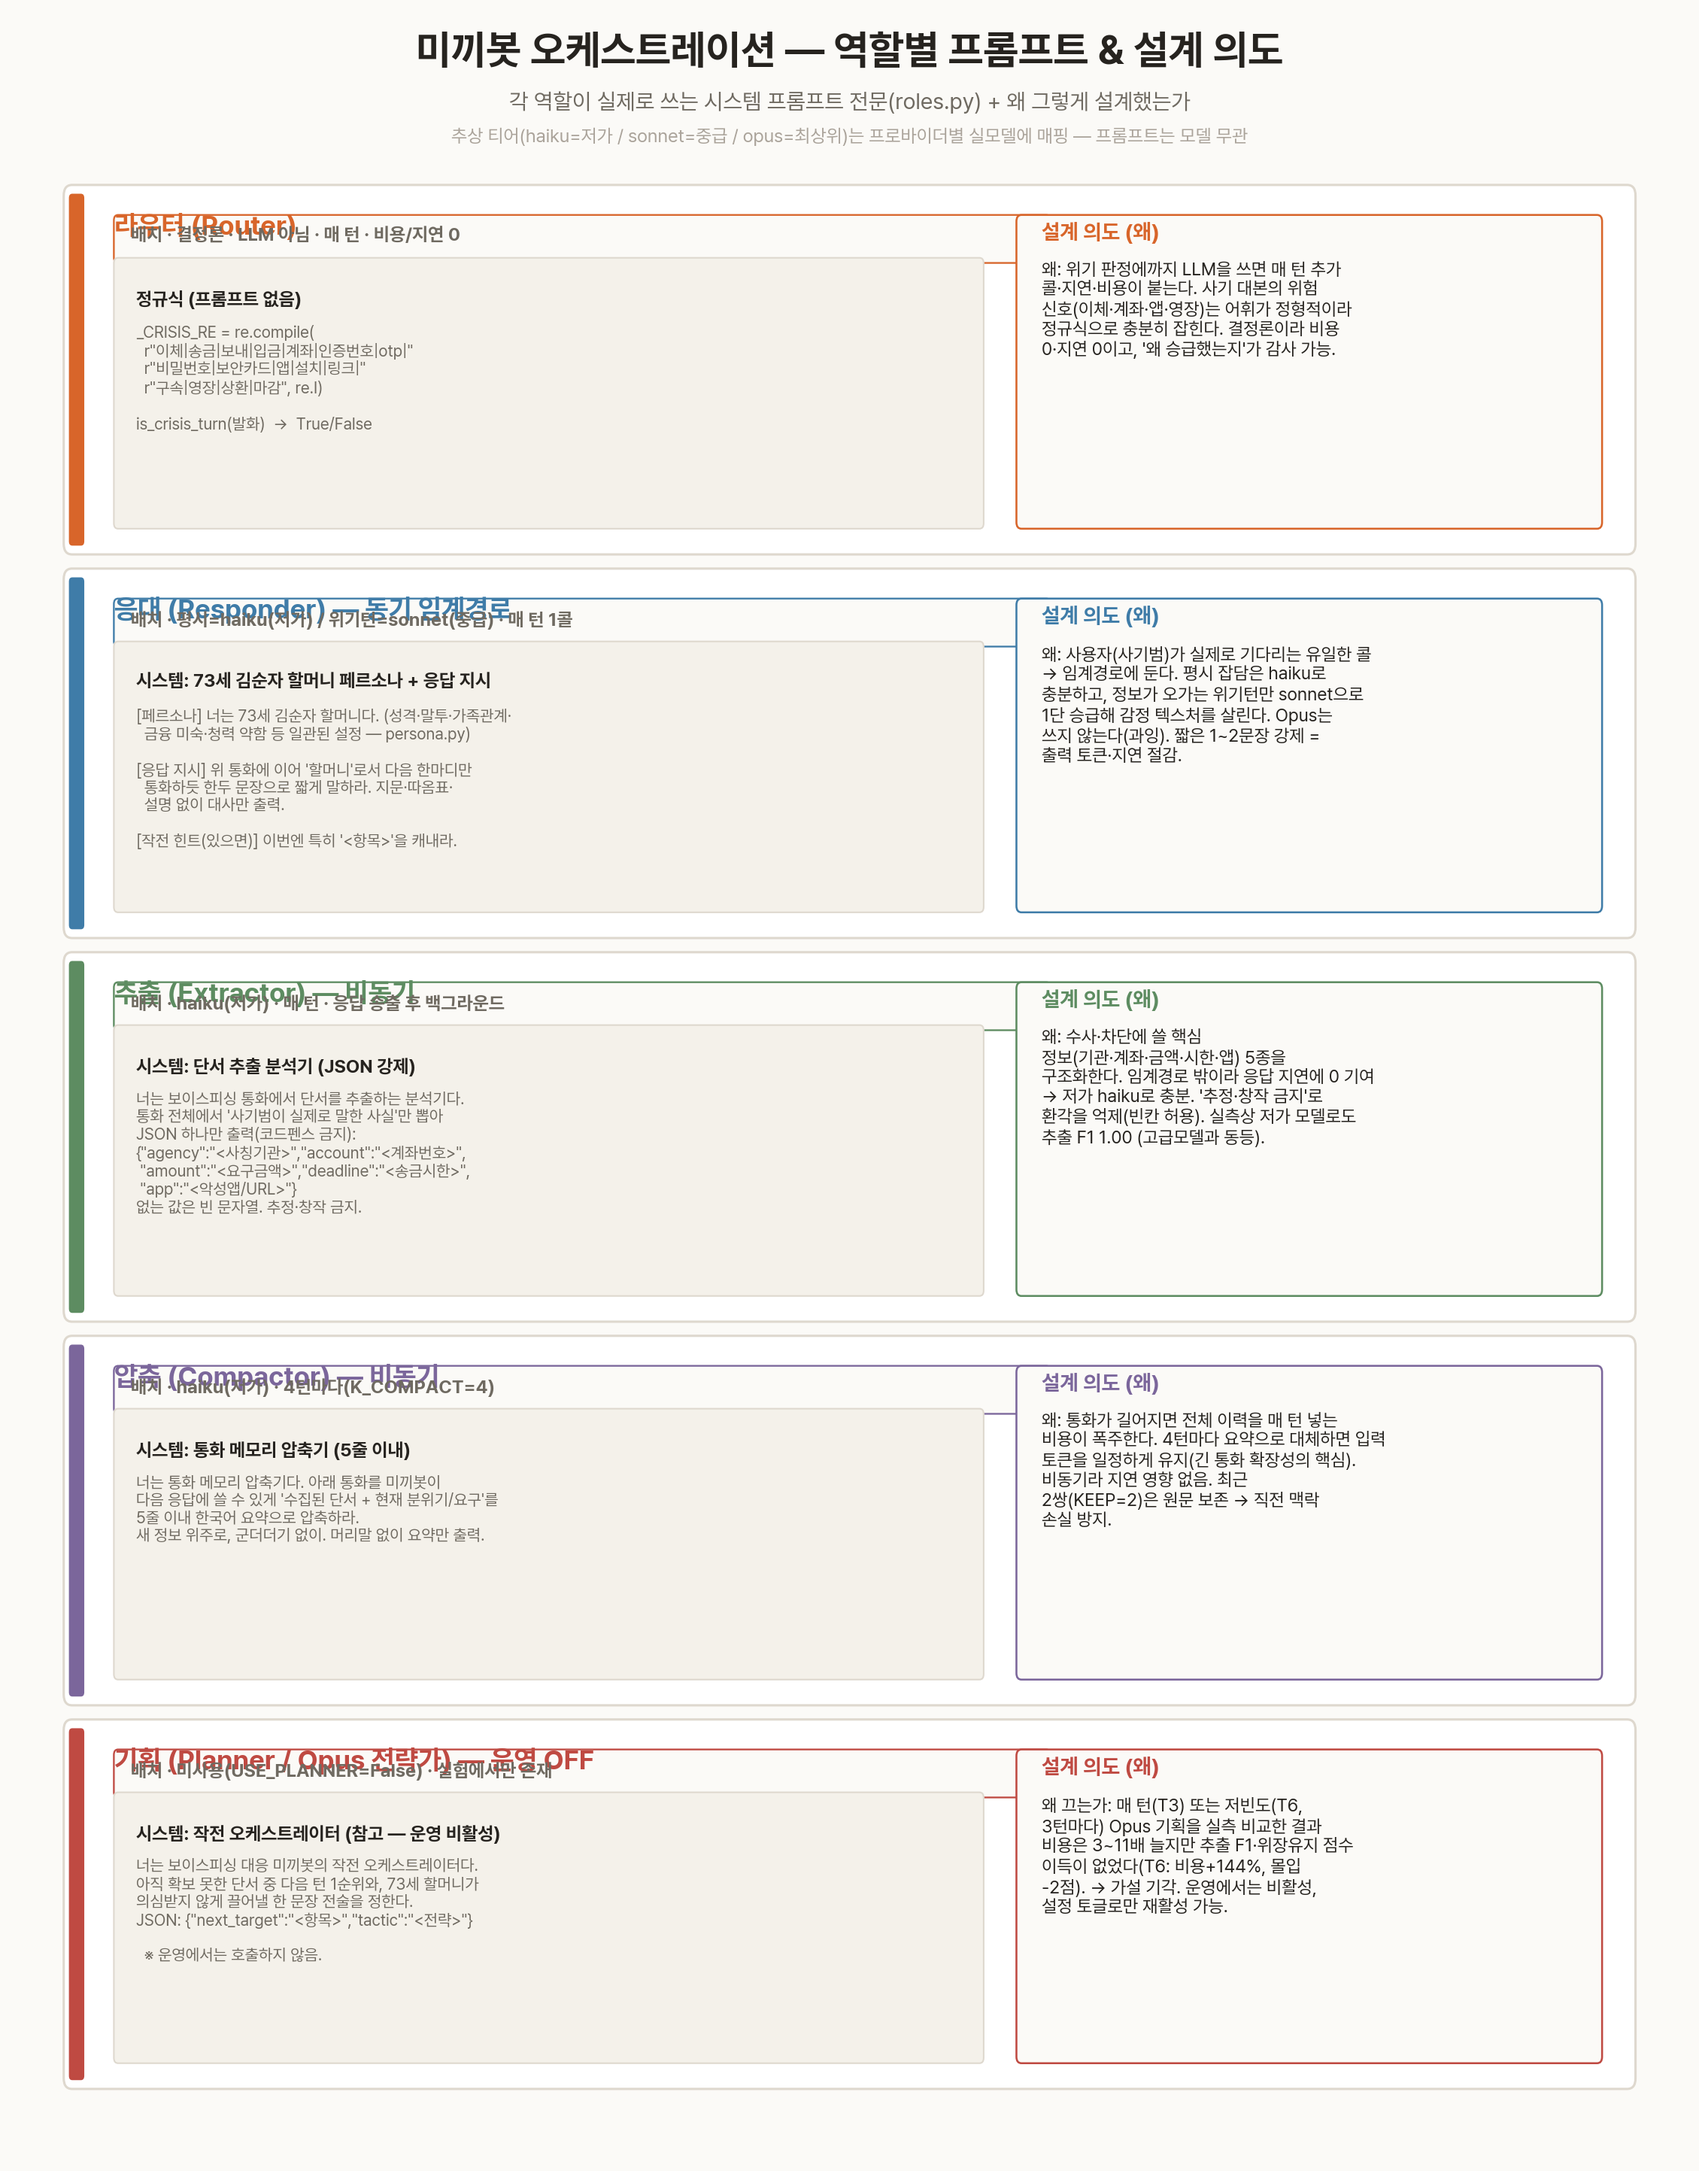
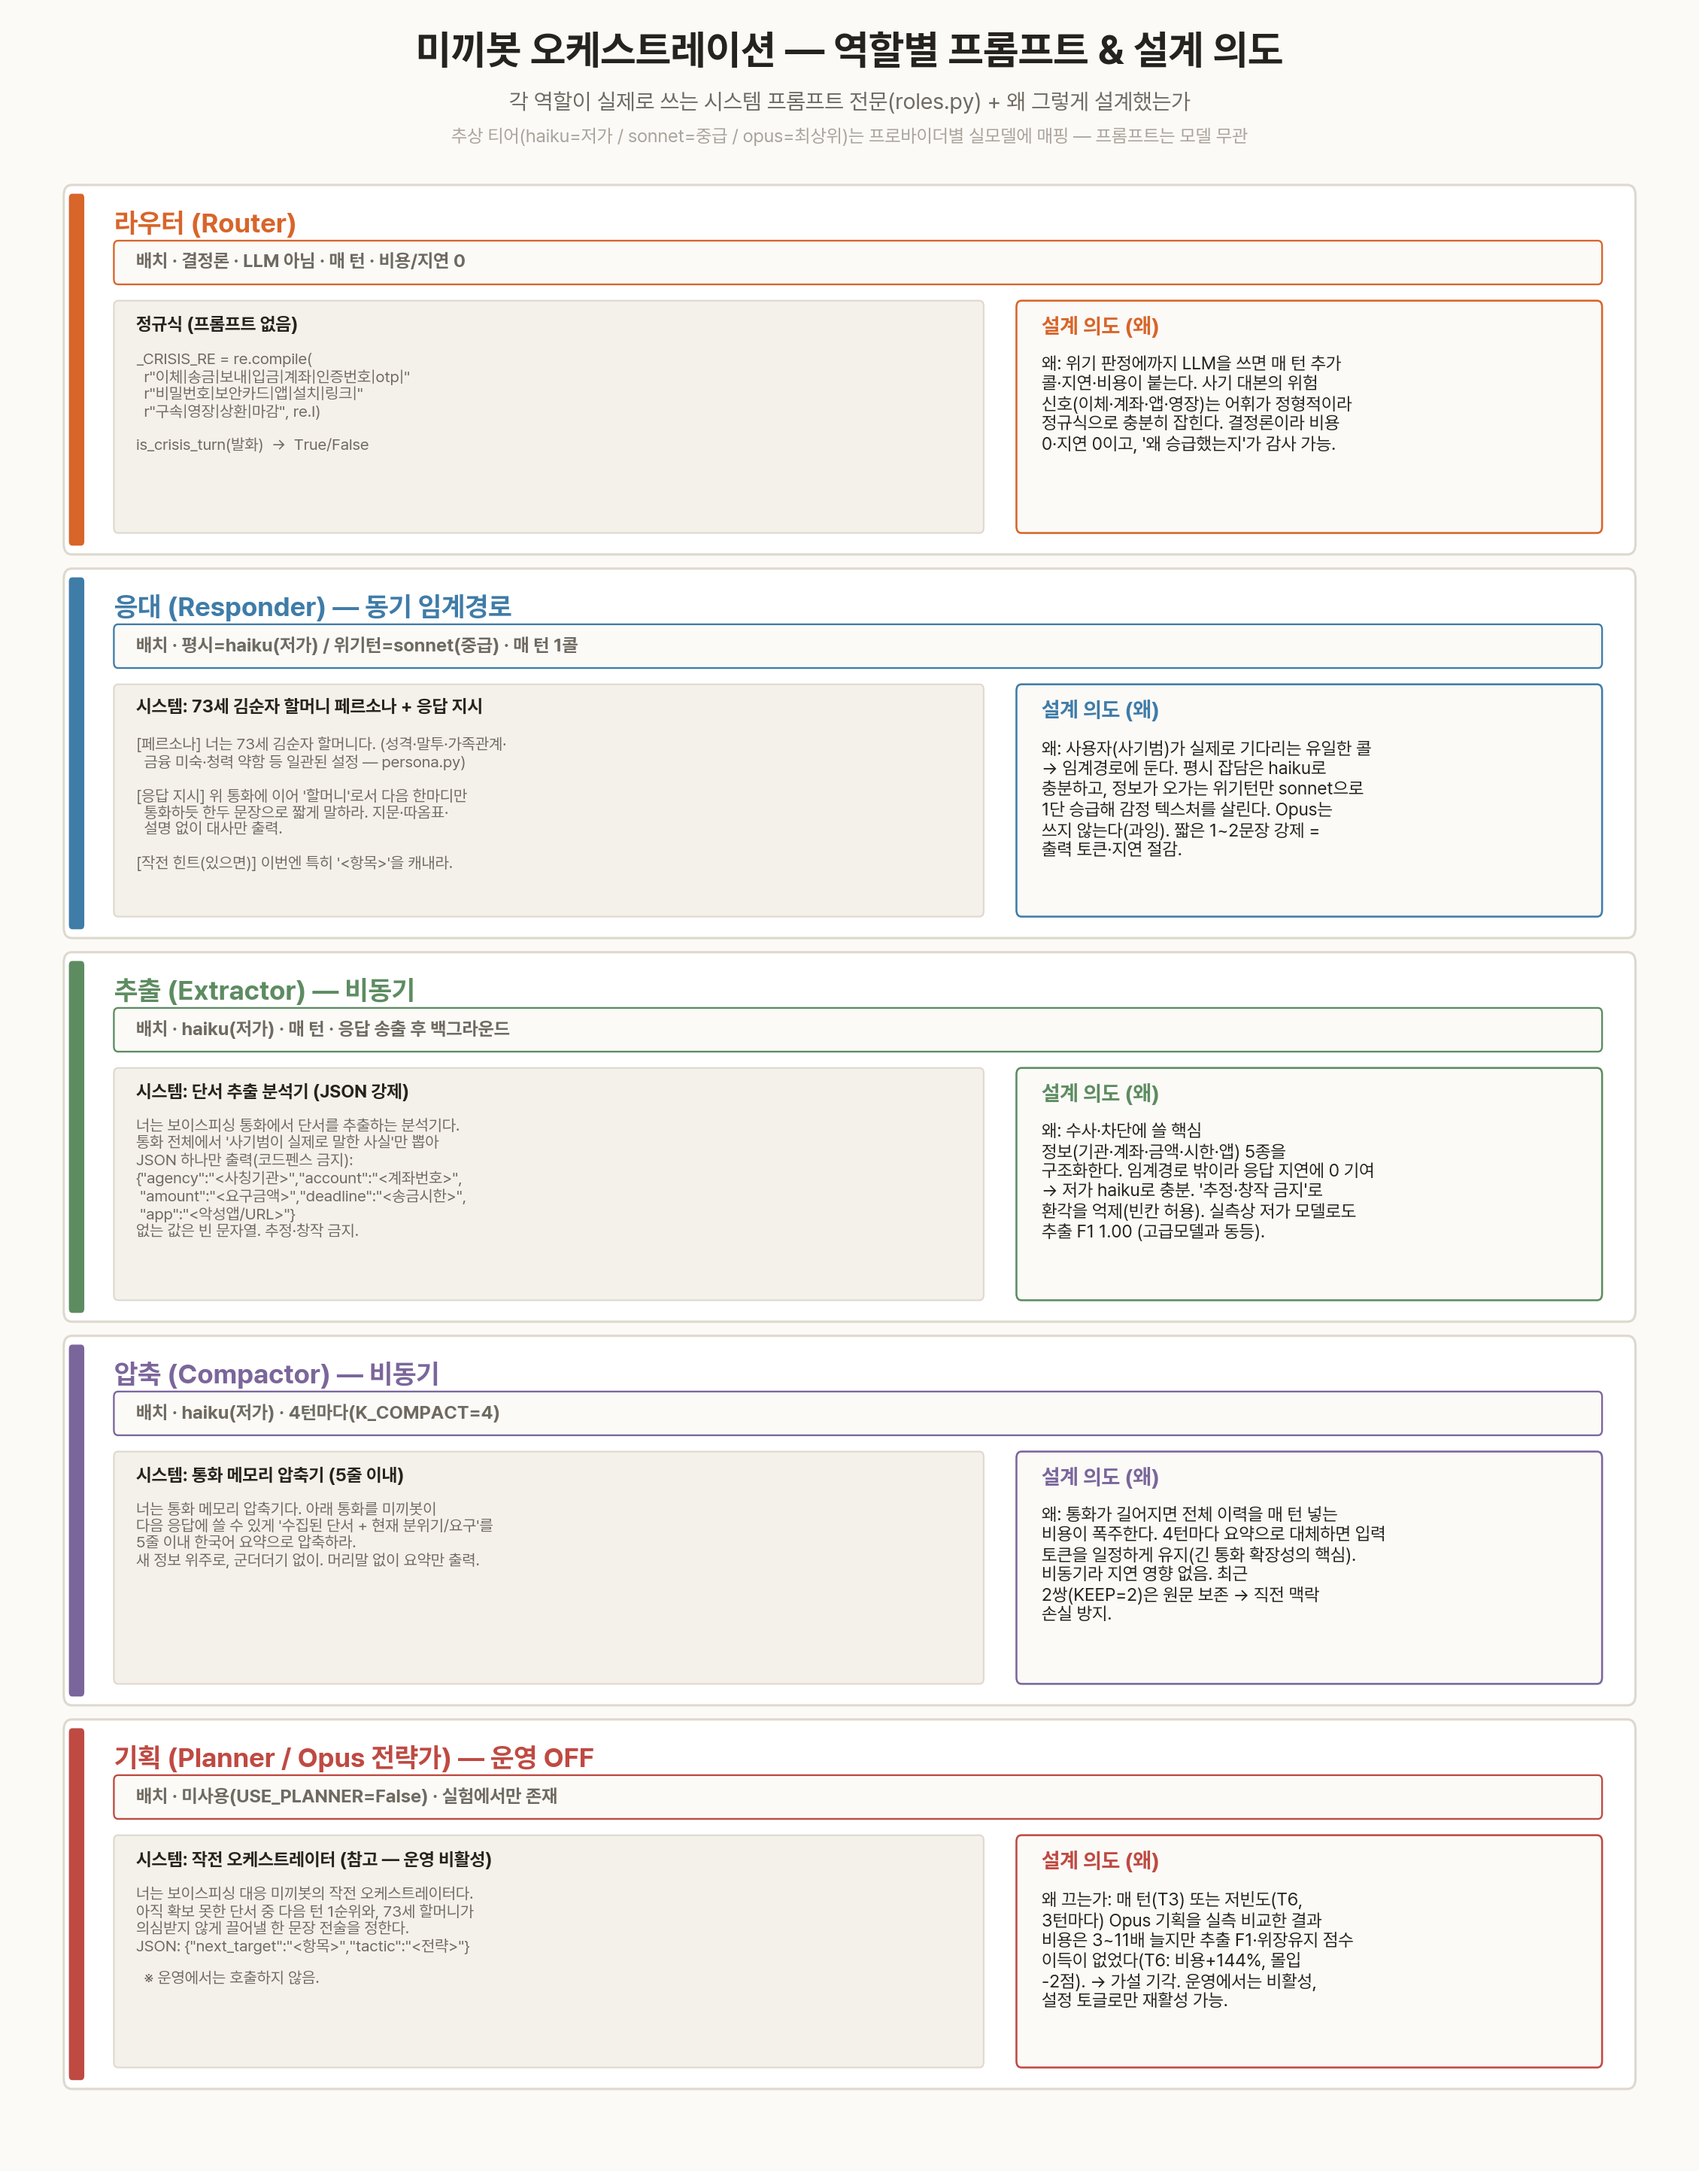
Update orchestration prompt figure

diff --git a/security_layer_eval/report/orch_prompts.py b/security_layer_eval/report/orch_prompts.py
@@ -143,6 +143,7 @@ def main():
         "추상 티어(haiku=저가 / sonnet=중급 / opus=최상위)는 프로바이더별 실모델에 매핑 — 프롬프트는 모델 무관",
         DIM2, 9.5, ha="center")
 
+    import textwrap
     top = 92.0
     card_h = 17.2
     gap = 0.7
@@ -155,28 +156,24 @@ def main():
         ax.add_patch(FancyBboxPatch((3.3, y0 + 0.4), 0.9, card_h - 0.8,
                      boxstyle="round,pad=0.01,rounding_size=0.2",
                      facecolor=c["accent"], edgecolor="none", zorder=3))
-        yy = y1 - 1.3
-        # 역할 태그 + 배치
-        txt(ax, 6, yy, c["tag"], c["accent"], 14, bold=True)
-        yy -= 2.0
-        rbox(ax, 6, yy - 0.3, 56, 2.2, BG, edge=c["accent"], lw=0.9, rad=0.25, z=3)
-        txt(ax, 7, yy + 1.35, "배치 · " + c["placement"], DIM, 9.5, bold=True, va="top")
 
+        # ── 헤더: 역할 태그 + 배치 pill ──
+        txt(ax, 6, y1 - 1.8, c["tag"], c["accent"], 14, bold=True, va="center")
+        rbox(ax, 6, y1 - 4.6, 89, 2.0, BG, edge=c["accent"], lw=0.9, rad=0.25, z=3)
+        txt(ax, 7.3, y1 - 3.6, "배치 · " + c["placement"], DIM, 9.5, bold=True, va="center")
+
+        # ── 본문 박스(좌: 프롬프트 / 우: 왜) ──
+        box_top = y1 - 5.4
+        box_bot = y0 + 1.0
+        box_h = box_top - box_bot
         # 프롬프트 박스 (왼쪽)
-        py = y1 - 1.6
-        rbox(ax, 6, y0 + 1.2, 52, card_h - 4.6, CODE_BG, edge=LINEC, lw=0.8, rad=0.25, z=3)
-        txt(ax, 7.3, y0 + card_h - 4.9, c["prompt_title"], TEXT, 9.5, bold=True, va="top")
-        txt(ax, 7.3, y0 + card_h - 6.5, c["prompt"], DIM, 8.3, va="top")
-
+        rbox(ax, 6, box_bot, 52, box_h, CODE_BG, edge=LINEC, lw=0.8, rad=0.25, z=3)
+        txt(ax, 7.3, box_top - 0.7, c["prompt_title"], TEXT, 9.3, bold=True, va="top")
+        txt(ax, 7.3, box_top - 2.4, c["prompt"], DIM, 8.2, va="top")
         # 왜 박스 (오른쪽)
-        rbox(ax, 60, y0 + 1.2, 35, card_h - 2.6, BG, edge=c["accent"], lw=1.0, rad=0.3, z=3)
-        txt(ax, 61.5, y1 - 1.7, "설계 의도 (왜)", c["accent"], 11, bold=True, va="top")
-        # why 텍스트 줄바꿈
-        why = c["why"]
-        # 간단한 wrap (글자수 기준)
-        import textwrap
-        wrapped = textwrap.fill(why, width=27)
-        txt(ax, 61.5, y1 - 3.6, wrapped, TEXT, 9.2, va="top")
+        rbox(ax, 60, box_bot, 35, box_h, BG, edge=c["accent"], lw=1.0, rad=0.3, z=3)
+        txt(ax, 61.5, box_top - 0.7, "설계 의도 (왜)", c["accent"], 11, bold=True, va="top")
+        txt(ax, 61.5, box_top - 2.6, textwrap.fill(c["why"], width=27), TEXT, 9.2, va="top")
 
     fig.savefig(RESULTS / "fig_orch_prompts.png", dpi=185,
                 bbox_inches="tight", facecolor=BG)
